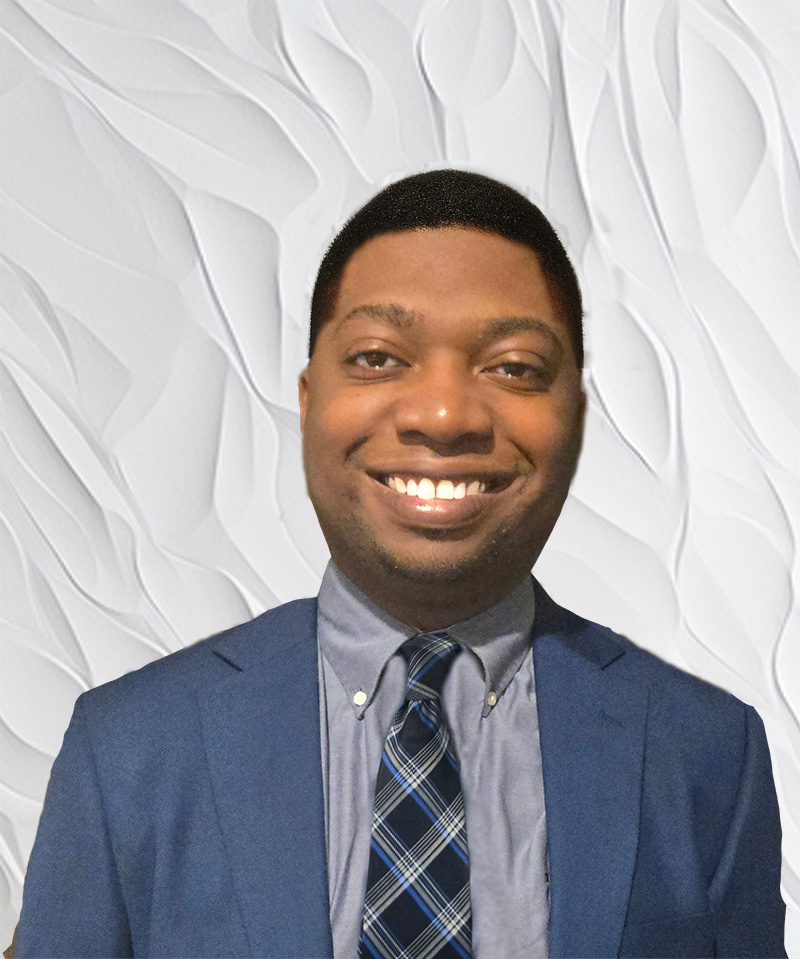
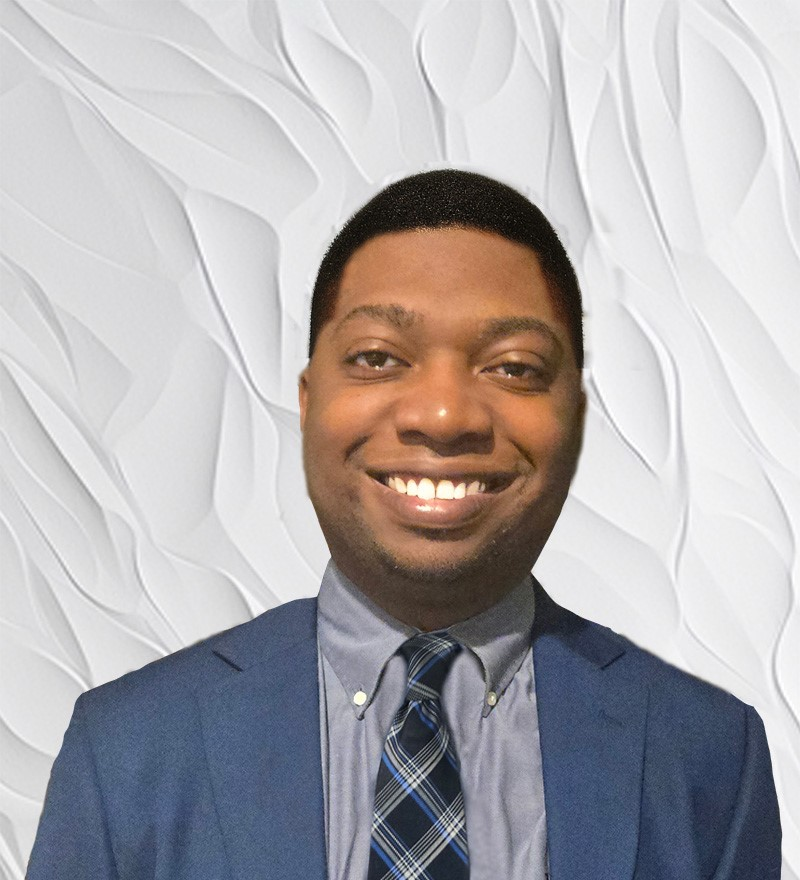
8.3

diff --git a/frontend/src/pages/Home.jsx b/frontend/src/pages/Home.jsx
@@ -158,7 +158,7 @@ const fmtDuration = (seconds, withSeconds = false) => {
         className="parallax-window tm-section tm-section-home d-flex align-items-center"
         id="home"
         data-parallax="scroll"
-        data-image-src="/img/ricardo2.jpg"
+        data-image-src="/img/ricardoTech_0212.jpg"
         style={{ minHeight: '100vh' }}
       >
         <div className="container">
@@ -173,7 +173,7 @@ const fmtDuration = (seconds, withSeconds = false) => {
                 {/* Begining of the image fade effect */}
             <div className="fade-in-image-container">
             <img
-      src="/img/gfhuf7f7.jpg"
+      src="/img/ricardo2.jpg"
       alt="Portrait"
       className="fade-in-image"
       id="fadeImage"
